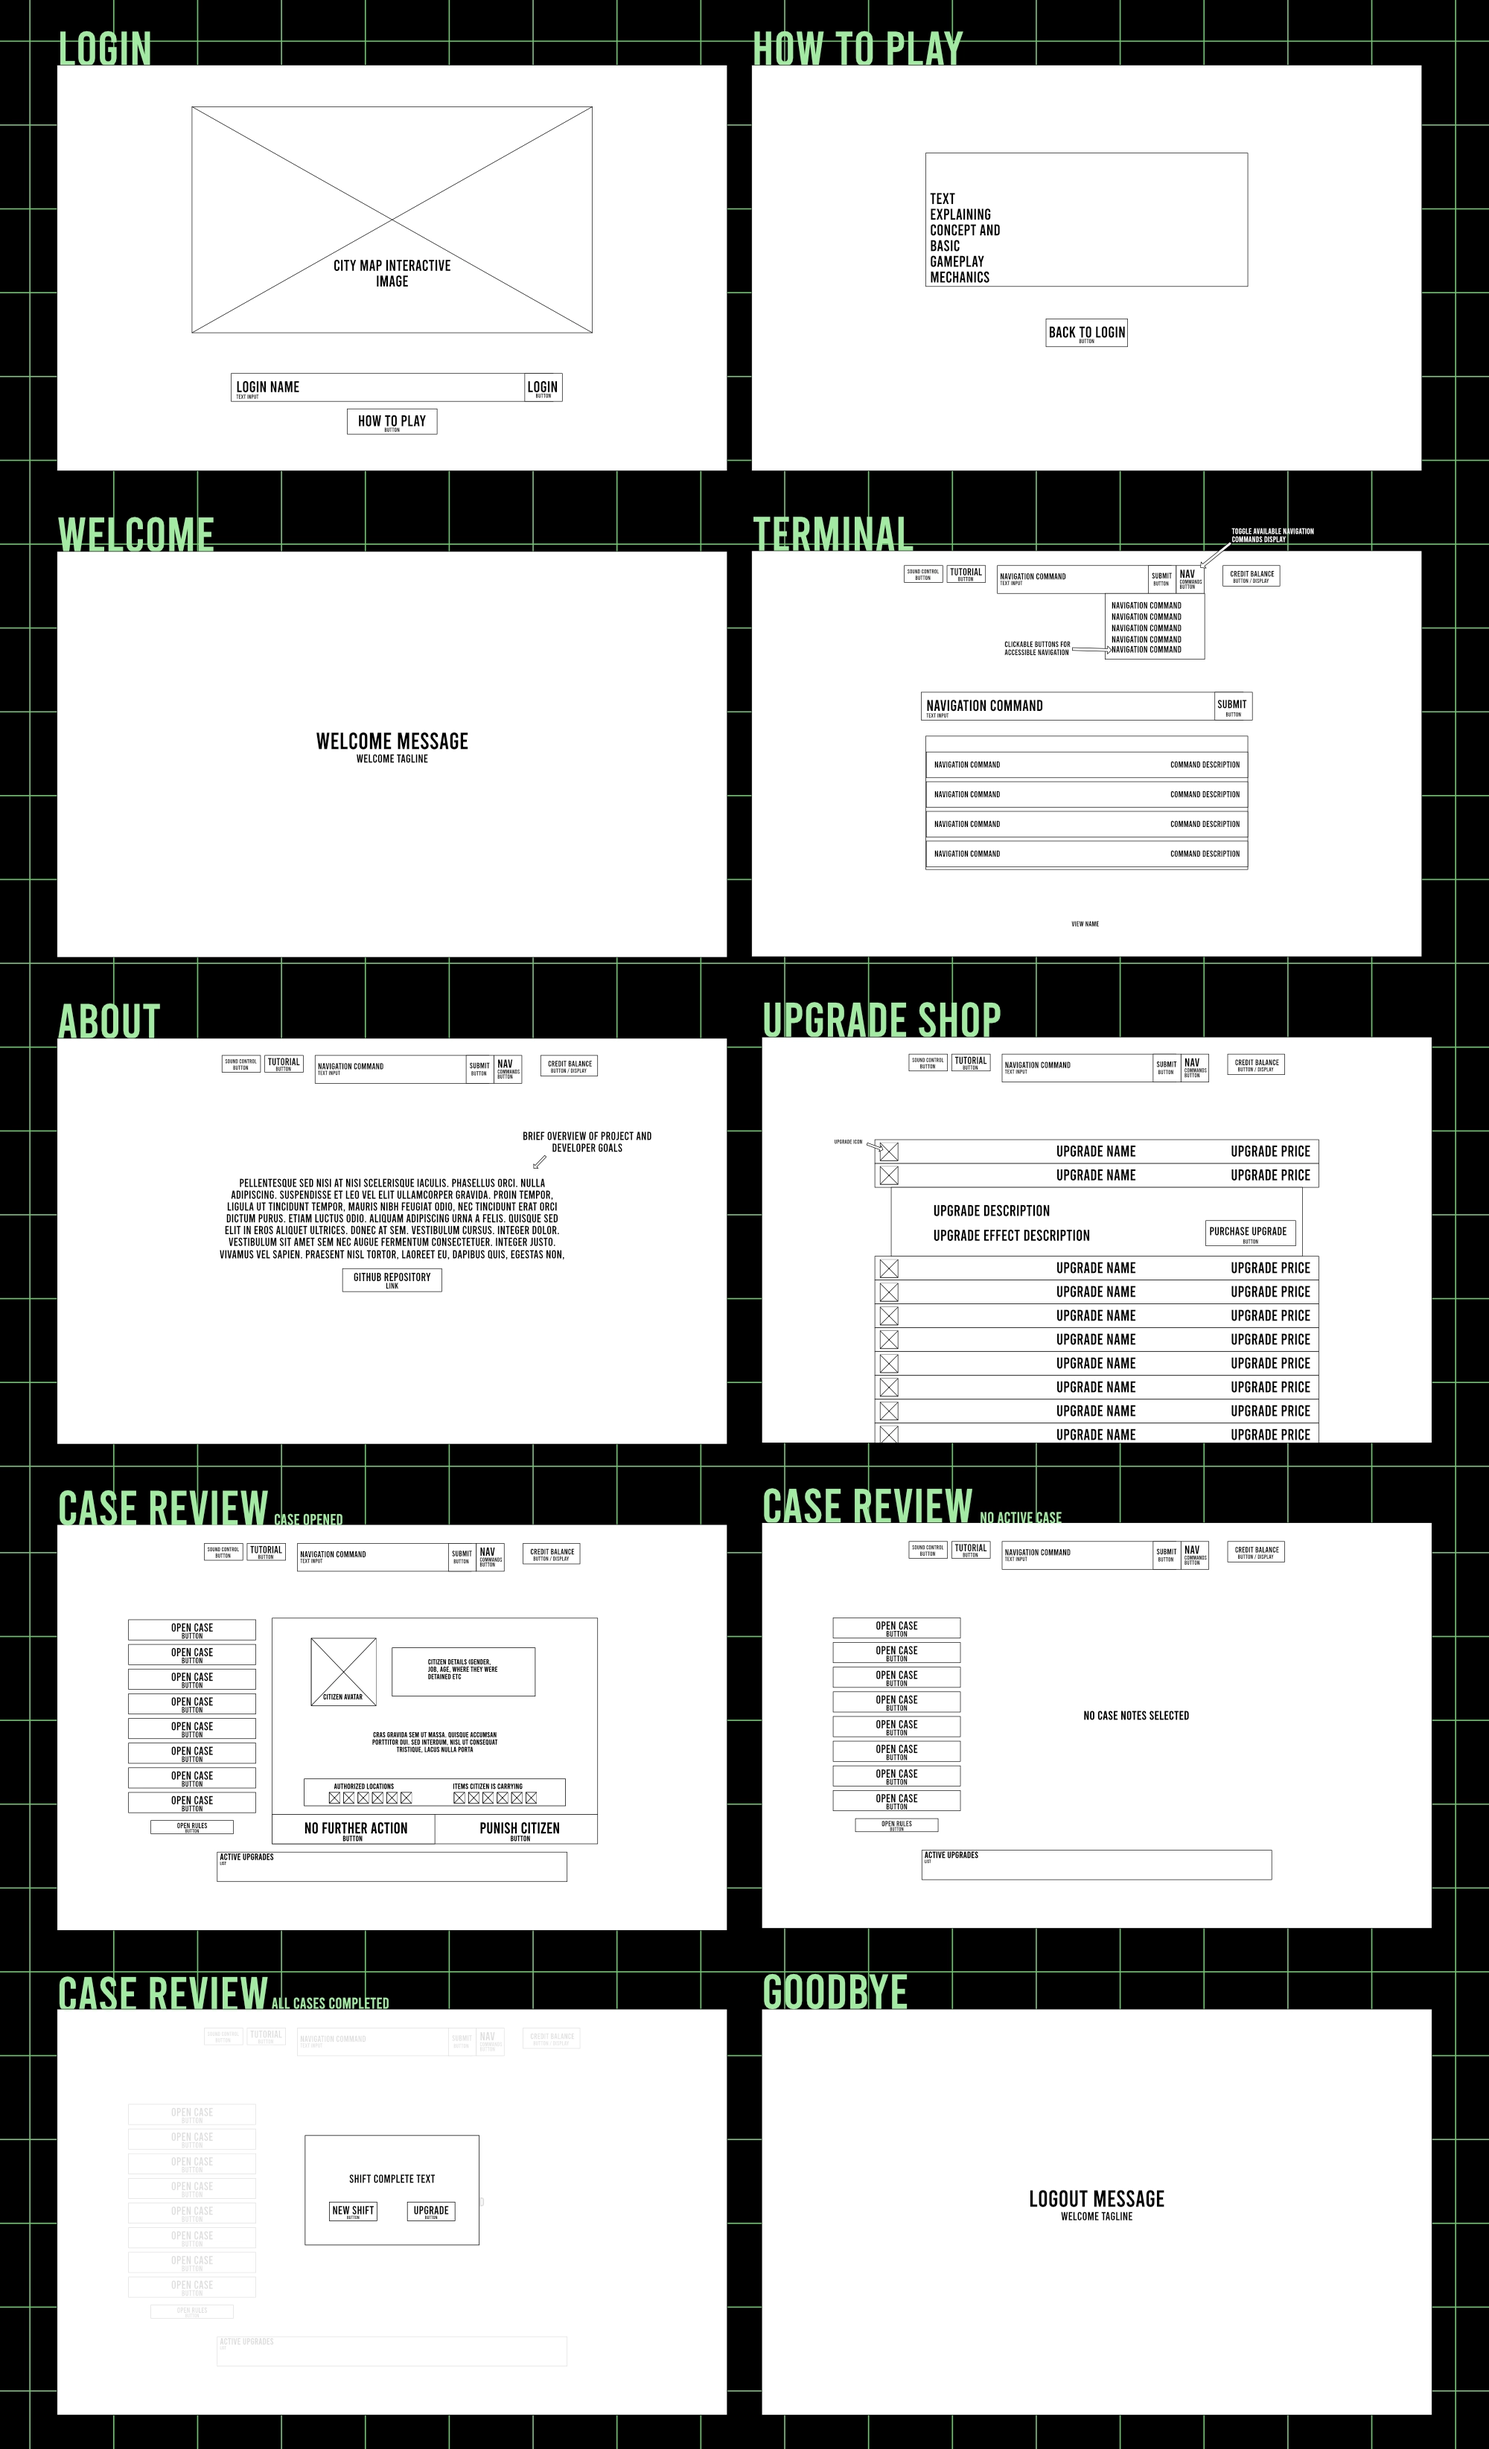
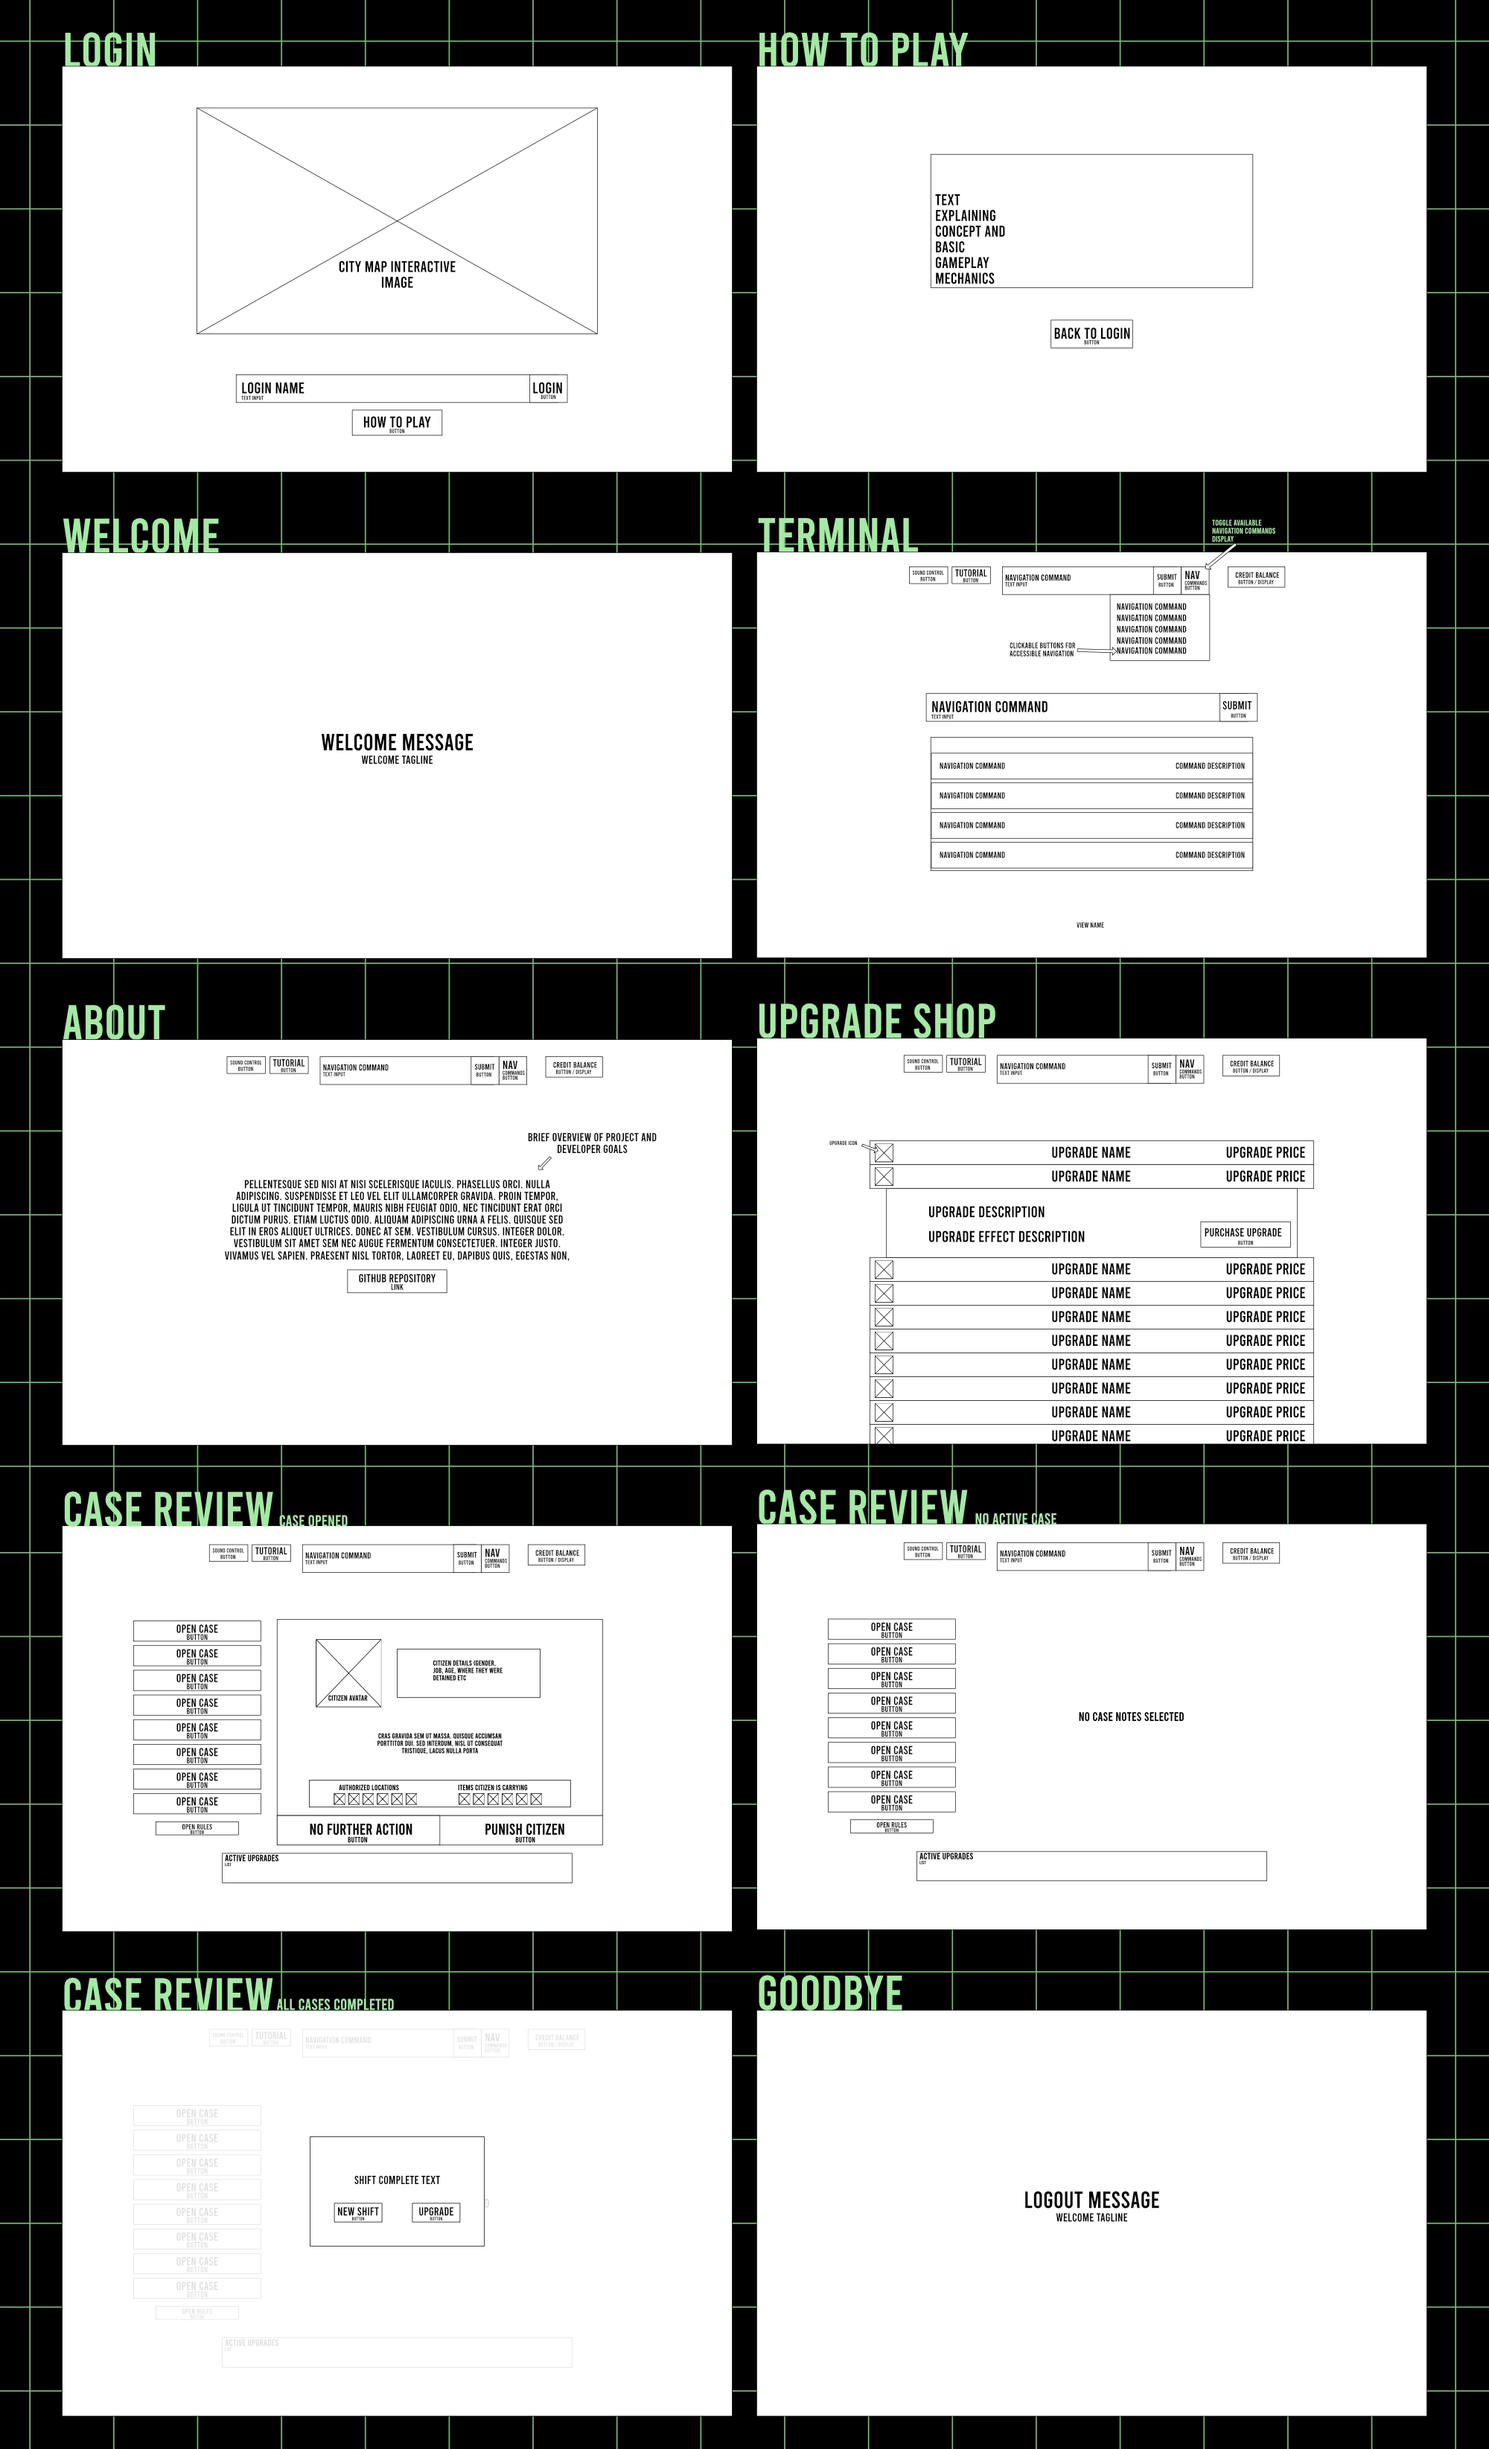
readme: formatting and adding wireframes

diff --git a/README.md b/README.md
@@ -354,7 +354,7 @@ Not including this feature in the current release of the project does not impact
 
 ![Wireframes](src/assets/images/readme/wireframes-desktop.webp)
 
-## Mobile
+### Mobile
 Due to the mobile first and responsive design approach maintained throughout development, the majority of the views in the app render almost identically regardless of viewing platform. The following wireframes identify the changes required within the more complex components, to render a usable view that promotes a positive UX. 
 
 ![wireframes-mobile](src/assets/images/readme/wireframes-mobile.webp)
@@ -382,26 +382,35 @@ Images have been re-sized to both provide high quality visuals as well as ensure
 
 ## Colour
 
-using `<meta name="theme-color" content="#000000">` to set the colour of mobile browser address bar to fit the color scheme of the app.
-The retro futuristic aesthetic I decided to utilise for this game allowed me the freedom to be creative with the colour pallete throughout the app. When researching UI examples and references from films I noticed that most computer systems set in a dystopian, authoritative universe, tended towards a simple high contrast colour scheme that didn't distract from the content. Choosing two primary colours and allowing the use of slightly altered brightnesses of these two colours, ensured that there was a cohesive, thematic and consistent feel to the entire application. The colours I chose as my two primary colours enhance the overall theme of the app and contribute to achieving its purpose.
-My initial concept was to create a simulated computer terminal in a retro futuristic setting. Simulating a system that runs on a low tech computer terminal that only renders two colours (at varying degrees of brightness) helps to further enhance the theming of the app.
+### Theming
+In order to further complete the theming of the app, a meta tag was used to set the colour of the address bar on compatible mobile devices. 
+
+`<meta name="theme-color" content="#000000">` 
+
+The retro futuristic aesthetic I decided to utilise for this game allowed me the freedom to be creative with the colour pallete throughout the app. When researching UI examples and references from films I noticed that most computer systems set in a dystopian, authoritative universe, tended towards a simple high contrast colour scheme that didn't distract from the content. Choosing two primary colours and allowing the use of slightly altered values of these two colours, ensured that there was a cohesive, thematic and consistent feel to the entire application. 
+
+The colours I chose as my two primary colours enhance the overall theme of the app and contribute to achieving its purpose.
+
 Contrast however is important, particularly when committing to the use of only two colours. For this reason I used ..... To check the contrast value between my two primary colours and the result showed a pass with high contrast at .....
 With the use of only two colours, it was also important to ensure that similar/identical elements that appear across different components are styled consistently to ensure that calls to action (CTA) and other important elements are easy to identify and navigate.
 
-Applying colour to external library components:
+### Applying colour to external library components:
 The React tooltips package was used to integrate tooltips into the app. As standard the default styling of these tooltips was not in line with the styling applied to the rest of the app.
 In order to style tooltips successfully, the documentation advised that tooltips must have a higher level of specificity in order to successfully apply CSS styling rules. For this reason, all tooltips were given a class of 'custom-tooltip' and placed within the 'main-content' element to ensure that they can be targeted with a higher specificity than their default styling rules.
-#main-content .custom-tooltip{
-CSS rules to apply to tooltips.
-}
 
-Lucide icons package
-Icons used from the lucide icons package can easily be styled by applying a custom class to them, effecting their colour, size, fill etc.
+     #main-content .custom-tooltip{
+       CSS rules to apply to tooltips.
+     }
+
+### Lucide icons package
+Icons used from the lucide icons package can easily be styled by applying a custom class to them, changing their colour, size, fill etc.
 This package was used to provide icons for CTAs, carriable items and faux loading screens.
 
 ### Favicon
  
-A simple Favicon was created using Affinity Designer and converted into the correct format for use (.ico)
+A simple SVG Favicon was created using Affinity Designer. When researching Favicons, i found that the modern approach generally sues a PNG or SVG file as the majority of modern browsers in use support these formats, rather than relying on a .ico file. 
+
+By using an SVG file, it allows me to reuse the icon elsewhere within the app if needed, rather than creating two separate files (.SVG and .ico). Testing was undertaken to ensure that the favicon is compatible with modern browsers. 
 
 ## Key Features - Design \& content
 
@@ -415,7 +424,7 @@ Individual objects that hold possible character names,occupations,carried items,
 For simple effects and components that are primarily cosmetic, a simple randomization utility function such as the below has been used.
 
     Function randomChance(threshold :number) : Boolean{
-     If(math.floor(math.random()*10)+1 < threshold){
+     if(math.floor(math.random()*10)+1 < threshold){
           return true
       } Else {
           return false
